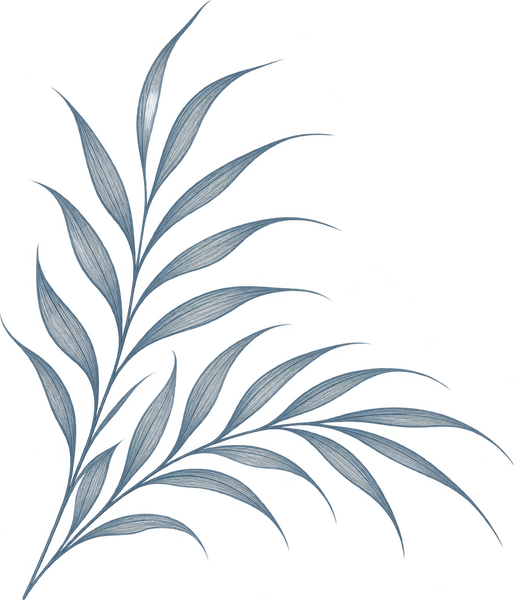
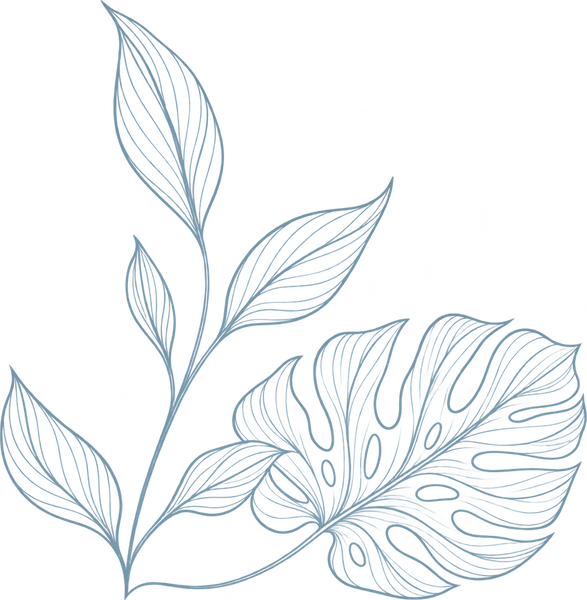
Corrige el recorte de la hoja de Dress Code para que la punta del tallo quede al ras
La imagen ya estaba recortada justo hasta la punta del tallo, pero el
margen negativo (bleed) que tenía el CSS la recortaba de nuevo,
cortando esa punta. Se quita el bleed en ambas hojas de la sección.

diff --git a/public/wedding-invitation_1.html b/public/wedding-invitation_1.html
@@ -621,8 +621,8 @@
     pointer-events: none;
     z-index: 0;
   }
-  .dresscode-leaf-bl { bottom: -8px; left: -8px; }
-  .dresscode-leaf-tr { top: -8px; right: -8px; }
+  .dresscode-leaf-bl { bottom: 0; left: 0; }
+  .dresscode-leaf-tr { top: 0; right: 0; }
 
   /* Layout dos columnas */
   .dresscode-container {
